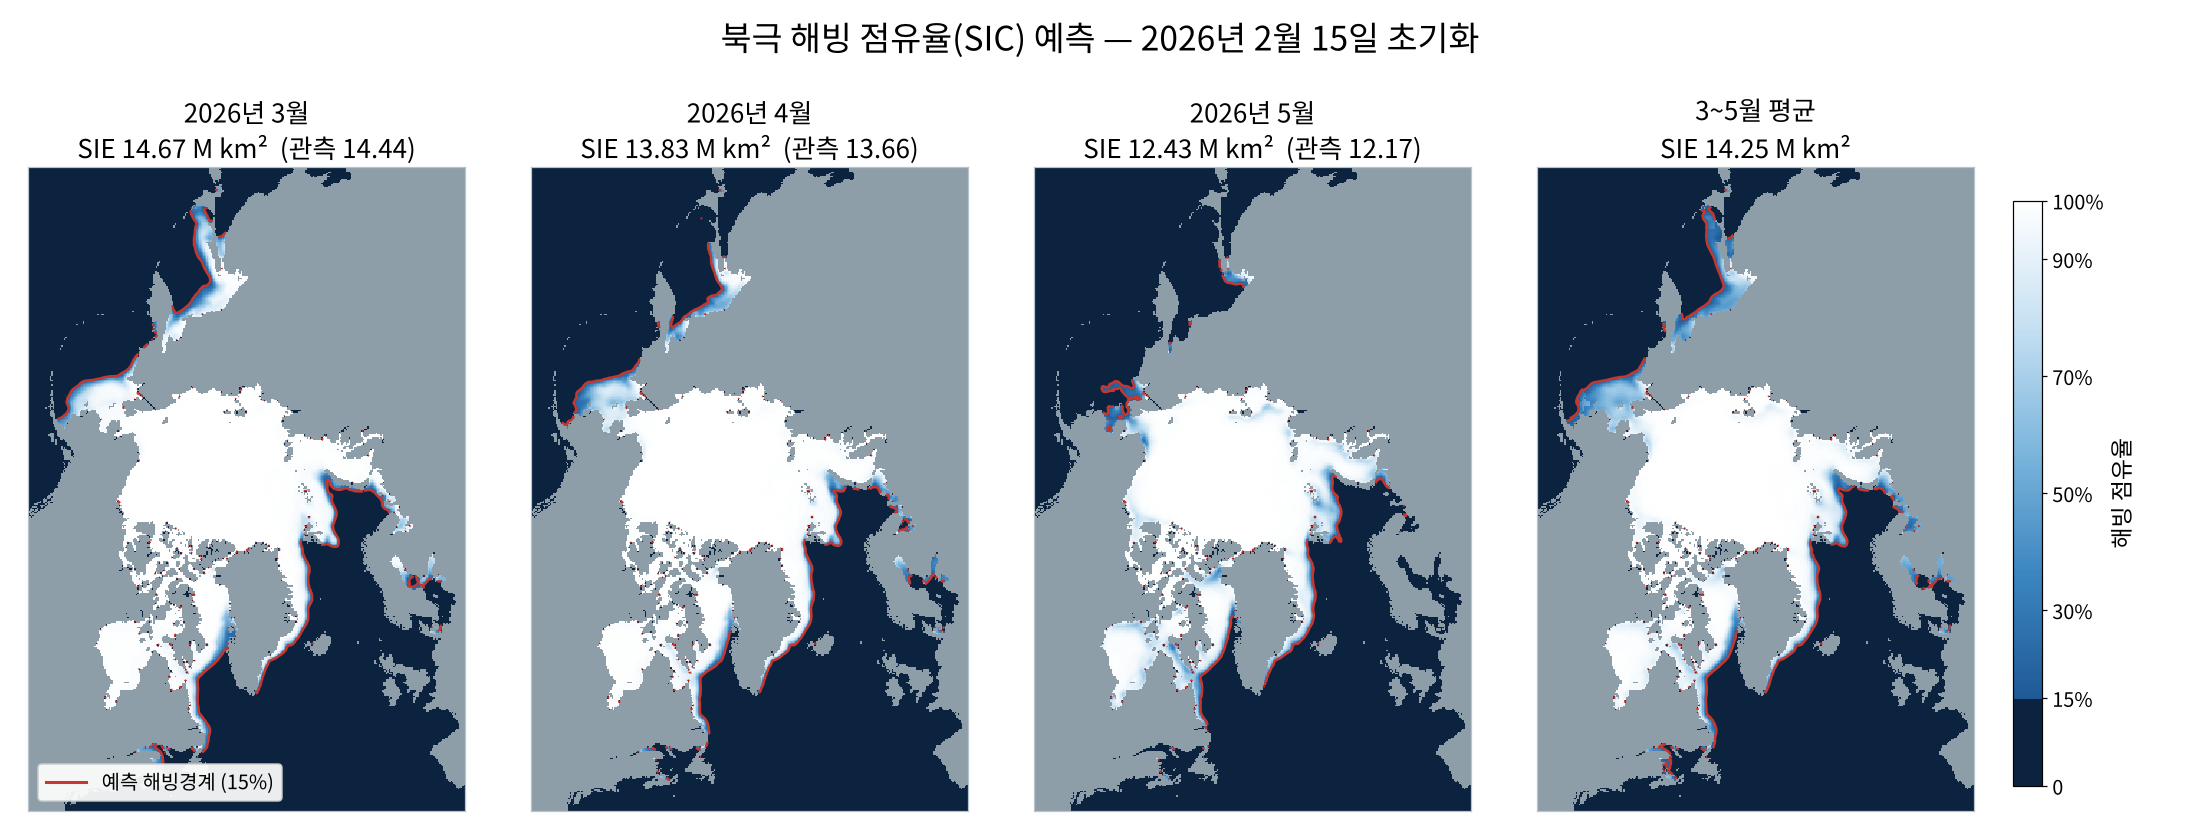
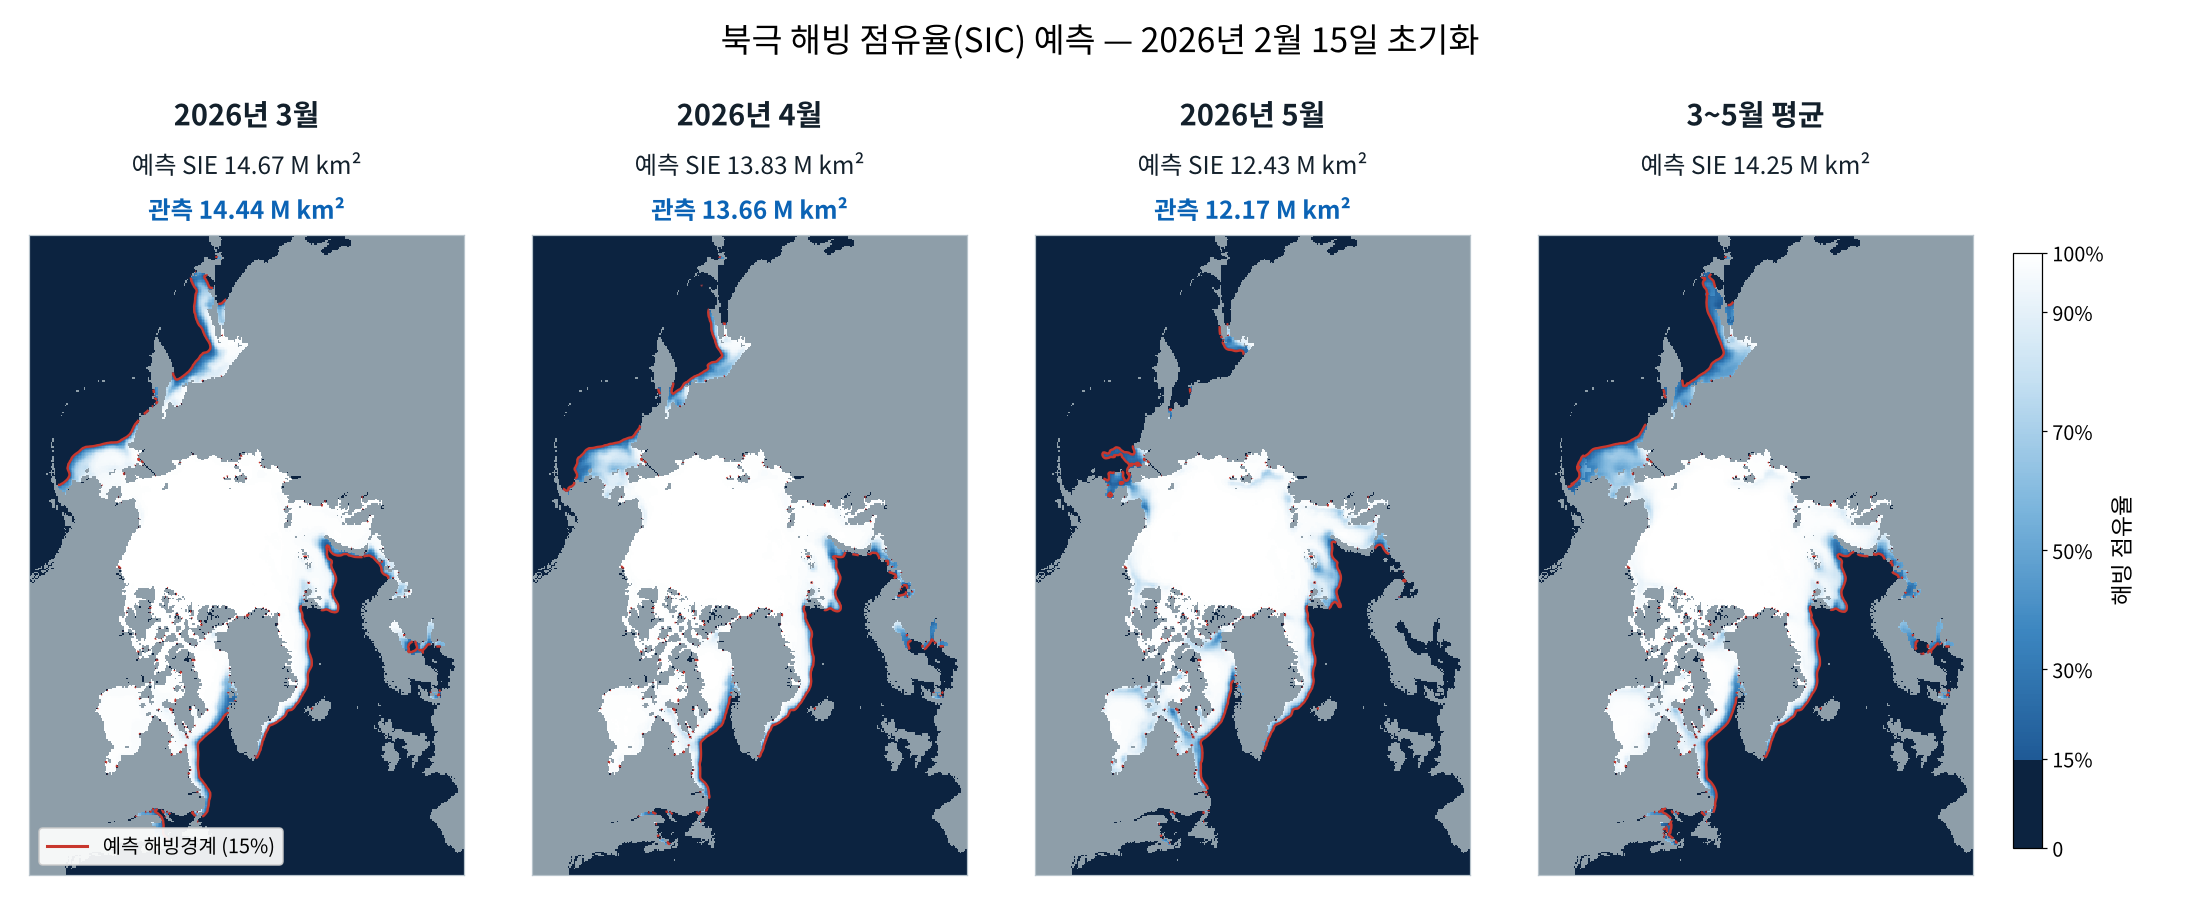
지도 제목에서 관측(파랑)과 평년(회색)을 구분
Claude-Session: https://claude.ai/code/session_01BaPANrSLKVQGY87M4pid7S

diff --git a/assets/site.css b/assets/site.css
@@ -142,6 +142,8 @@ nav.mainnav a:hover{ background: var(--navy); border-color: var(--navy); color: 
 .pager .nav:disabled{ opacity: .3; cursor: default; }
 .fig{ margin: 24px 0 0; border: 1px solid var(--line); border-radius: var(--radius); background: #fff; padding: 14px; }
 .fig img{ display: block; width: 100%; height: auto; }
+.fig figcaption .obs{ color: #0b63b5; }
+.fig figcaption .clim{ color: #8a96a1; }
 .fig figcaption{ margin-top: 12px; font-size: 19px; color: var(--ink-mute); }
 .chartbox{ margin-top: 34px; border: 1px solid var(--line); border-radius: var(--radius); background: #fff; padding: 24px 26px 20px; }
 .chartbox h2{ margin: 0 0 4px; font-size: 26px; font-weight: 800; letter-spacing: -0.02em; color: var(--navy-deep); }

diff --git a/index.html b/index.html
@@ -137,7 +137,7 @@
     <figure class="fig">
       <img id="figimg" src="figs/SIC_202610.png?v=1792988043" alt="북극 해빙 농도 예측 지도">
       <figcaption>빨간 선은 예측 해빙경계(해빙 농도 15%), SIE는 해빙 농도 15% 이상 격자의 면적입니다.
-        괄호 안은 관측값(있을 때) 또는 최근 10년 평년값입니다. 키보드 ← → 로도 넘길 수 있습니다.</figcaption>
+        각 지도 위 셋째 줄은 <b class="obs">관측</b>(이미 관측된 달) 또는 <span class="clim">최근 10년 평년</span>(아직 관측 전인 달)의 면적입니다. 키보드 ← → 로도 넘길 수 있습니다.</figcaption>
     </figure>
 
     <div class="chartbox">

diff --git a/tools/template.html b/tools/template.html
@@ -137,7 +137,7 @@
     <figure class="fig">
       <img id="figimg" src="{{LATEST_FIG}}" alt="북극 해빙 농도 예측 지도">
       <figcaption>빨간 선은 예측 해빙경계(해빙 농도 15%), SIE는 해빙 농도 15% 이상 격자의 면적입니다.
-        괄호 안은 관측값(있을 때) 또는 최근 10년 평년값입니다. 키보드 ← → 로도 넘길 수 있습니다.</figcaption>
+        각 지도 위 셋째 줄은 <b class="obs">관측</b>(이미 관측된 달) 또는 <span class="clim">최근 10년 평년</span>(아직 관측 전인 달)의 면적입니다. 키보드 ← → 로도 넘길 수 있습니다.</figcaption>
     </figure>
 
     <div class="chartbox">

diff --git a/tools/build_site.py b/tools/build_site.py
@@ -40,6 +40,7 @@ NC_RE = re.compile(r"PKNU_AI_SIC_(\d{4})(\d{2})\.nc$")
 CELL_KM2 = 25.0 * 25.0
 THRESH = 0.15
 OCEAN, LAND, EDGE = "#0c2340", "#8e9ea9", "#c8372d"
+OBS_C, CLIM_C = "#0b63b5", "#8a96a1"     # 그림 제목의 관측(파랑) / 평년(회색)
 
 from matplotlib import font_manager as _fm
 
@@ -119,8 +120,8 @@ def make_cmap():
 def draw(info: dict, land: np.ndarray, ref: dict, out: Path) -> None:
     cmap = make_cmap()
     oy, om = info["origin"]
-    fig, axes = plt.subplots(1, 4, figsize=(20, 7.6))
-    fig.subplots_adjust(left=0.01, right=0.90, top=0.80, bottom=0.03, wspace=0.12)
+    fig, axes = plt.subplots(1, 4, figsize=(20, 8.2))
+    fig.subplots_adjust(left=0.01, right=0.90, top=0.74, bottom=0.03, wspace=0.12)
     fields = [info["sic"][i] for i in range(3)] + [info["sic3"]]
     names = [ym_label(*t) for t in info["targets"]]
     t0, t2 = info["targets"][0], info["targets"][2]
@@ -134,20 +135,25 @@ def draw(info: dict, land: np.ndarray, ref: dict, out: Path) -> None:
         ax.imshow(np.ma.masked_where(~land, land), cmap=ListedColormap([LAND]),
                   interpolation="nearest")
         ax.contour(np.where(land, np.nan, rgb), levels=[THRESH], colors=EDGE, linewidths=1.6)
-        sub = f"SIE {s:.2f} M km²"
+        # 제목 3줄: 대상 월 / 예측 SIE / 관측(파랑, 굵게) 또는 평년(회색) — 둘이 헷갈리지 않게 색을 나눈다
         r = ref.get(k) if k else None
+        ax.text(0.5, 1.165, nm, transform=ax.transAxes, ha="center", va="bottom",
+                fontsize=19, fontweight="bold", color="#13202b")
+        ax.text(0.5, 1.09, f"예측 SIE {s:.2f} M km²", transform=ax.transAxes,
+                ha="center", va="bottom", fontsize=16, color="#13202b")
         if r and r.get("obs") is not None:
-            sub += f"  (관측 {r['obs']:.2f})"
+            ax.text(0.5, 1.02, f"관측 {r['obs']:.2f} M km²", transform=ax.transAxes,
+                    ha="center", va="bottom", fontsize=16, fontweight="bold", color=OBS_C)
         elif r and r.get("clim10") is not None:
-            sub += f"  (평년 {r['clim10']:.2f})"
-        ax.set_title(f"{nm}\n{sub}", fontsize=17, linespacing=1.4)
+            ax.text(0.5, 1.02, f"평년(최근 10년) {r['clim10']:.2f} M km²", transform=ax.transAxes,
+                    ha="center", va="bottom", fontsize=15, color=CLIM_C)
         ax.set_xticks([]); ax.set_yticks([])
         for sp in ax.spines.values():
             sp.set_color("#b8c4cc")
 
     axes[0].legend(handles=[Line2D([], [], color=EDGE, lw=2, label="예측 해빙경계 (15%)")],
                    loc="lower left", fontsize=13, framealpha=0.92)
-    cax = fig.add_axes([0.915, 0.06, 0.013, 0.70])
+    cax = fig.add_axes([0.915, 0.06, 0.013, 0.66])
     sm = plt.cm.ScalarMappable(cmap=cmap, norm=plt.Normalize(0, 1))
     cb = fig.colorbar(sm, cax=cax, ticks=[0, .15, .3, .5, .7, .9, 1])
     cb.ax.set_yticklabels(["0", "15%", "30%", "50%", "70%", "90%", "100%"], fontsize=13)
